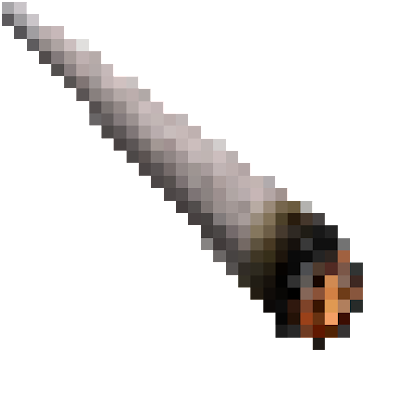
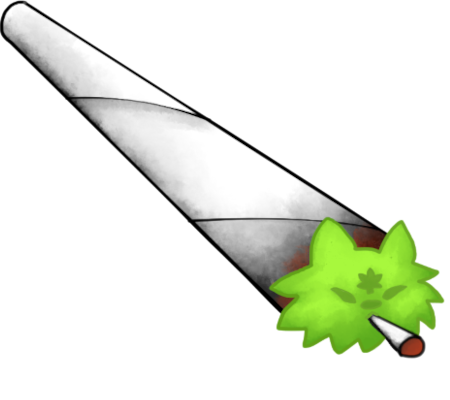
Blunt upgrade

Changed region(s): [[0.0, 0.0, 0.99, 0.9]]

diff --git a/src/plugin/Features/BobMarley.cs b/src/plugin/Features/BobMarley.cs
@@ -55,7 +55,7 @@ public static class BobMarley
         var bluntPos = self.GetBobMarleyData().BluntPos;
         if (bluntPos != default)
         {
-            self.GetBobMarleyData().Smoke.EmitSmoke(bluntPos, new Vector2(0.1f, 0.25f), new FloatRect(bluntPos.x - 50f, bluntPos.y - 150f, bluntPos.x + 50f, bluntPos.y + 250f), 1f);
+            self.GetBobMarleyData().Smoke.EmitSmoke(bluntPos + new Vector2(0,10), new Vector2(0.1f, 0.25f), new FloatRect(bluntPos.x - 50f, bluntPos.y - 150f, bluntPos.x + 50f, bluntPos.y + 250f), 1f);
         }
     }
 
@@ -178,9 +178,9 @@ public static class BobMarley
         sLeaser.sprites[self.LightSprite].color = new Color(0.3f, 0.7f, 0.3f);
         sLeaser.sprites[self.totalSprites - 1] = new FSprite("atlases/echo_joint")
         {
-            anchorX = 0,
-            anchorY = 1,
-            scale = 0.3f
+            anchorX = 0.03f,
+            anchorY = 0.97f,
+            scale = 0.27f
         };
 
         for (int i = 0; i < self.legs.GetLength(0); i++)
